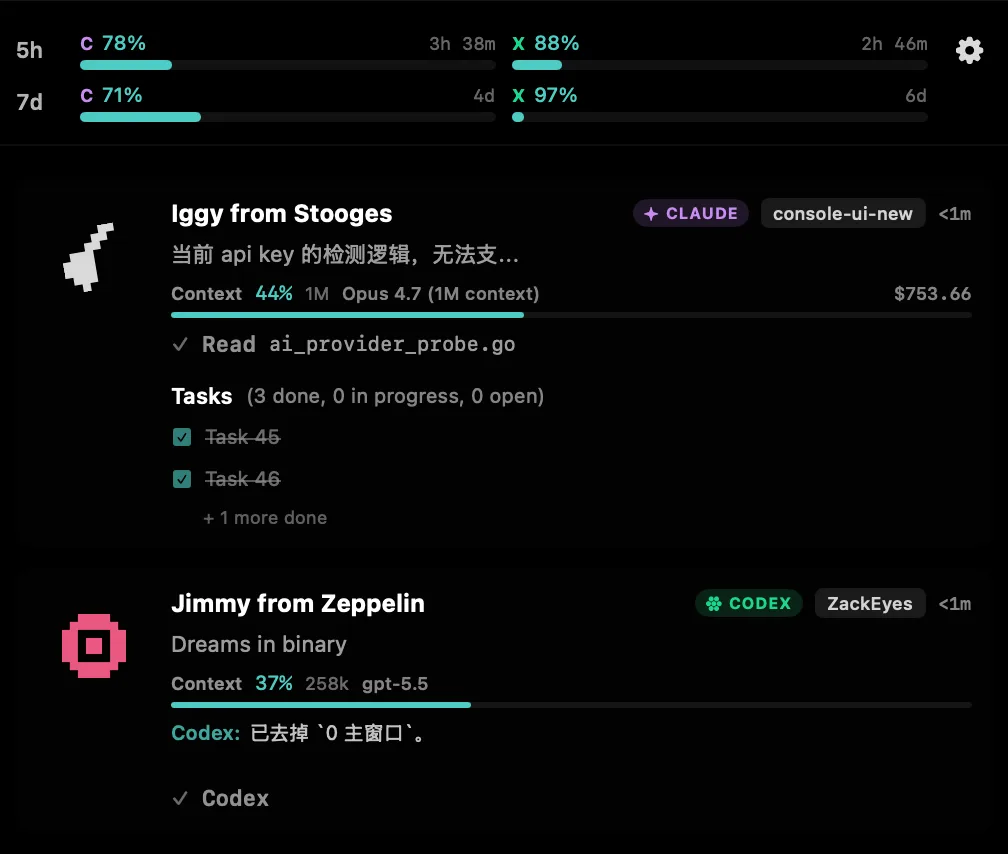
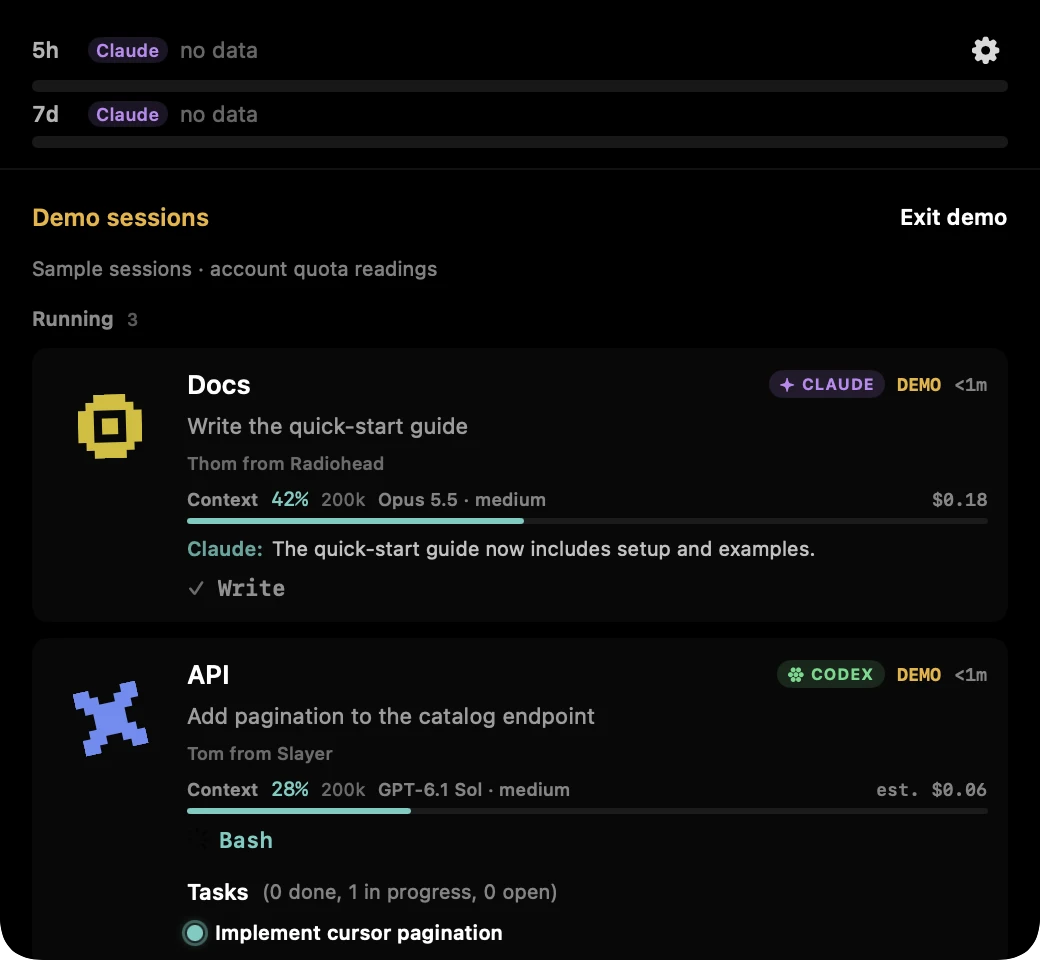
docs: align website content with current and planned releases (#278)

diff --git a/website/src/pages/llms-full.txt.ts b/website/src/pages/llms-full.txt.ts
@@ -1,3 +1,4 @@
+import { candidateVersion, journalVersion } from '../lib/product-plans.mjs';
 import {
   appVersion,
   releaseName,
@@ -40,8 +41,7 @@ ZackEyes is not another chat surface. It is an awareness layer for developers wh
 ## Install
 1. Download the current DMG from GitHub Releases.
 2. Open the DMG and drag ZackEyes into Applications.
-3. Launch ZackEyes and keep Claude Code or Codex CLI running in the normal terminal workflow.
-4. If macOS blocks first launch, approve ZackEyes in System Settings and reopen it.
+3. Verify the official checksum before first launch. The app is ad-hoc signed and not notarized. After verifying the checksum and trusting the official download, follow the installer README: xattr -dr com.apple.quarantine /Applications/ZackEyes.app. Then open it and start a fresh Claude Code or Codex CLI session.
 
 ## Download verification
 - Download page: https://zackeyes.vercel.app/download
@@ -49,22 +49,23 @@ ZackEyes is not another chat surface. It is an awareness layer for developers wh
 - SHA256: ${downloadSha256}.
 
 ## Uninstall
-1. Quit ZackEyes.
-2. Delete ZackEyes from Applications.
-3. Review ~/.claude/settings.json and ~/.codex/hooks.json for hook commands containing "zackeyes".
-4. Remove ~/.zackeyes only if you want to clear local ZackEyes settings.
+First use Settings → Integrations → Uninstall Integrations… while the app is installed, then quit and delete the app. Keep ~/.zackeyes or copy it before deletion: removing it erases Usage history, SSH host configuration, settings and existing journal files.
+1. While ZackEyes is installed, use Settings → Integrations → Uninstall Integrations… .
+2. Quit ZackEyes and delete it from Applications.
+3. Keep ~/.zackeyes to retain data, or copy it before deletion; it includes Usage history and SSH host configuration.
 
 ## Compatibility
+- The DMG app is ad-hoc signed, not Developer ID signed or notarized. Verify the official checksum, install into Applications, and follow the installer README for first launch.
 - macOS requirement: macOS 14 or newer.
 - CPU architecture: Apple Silicon and Intel Macs.
 - Agents: Claude Code and/or Codex CLI. ZackEyes installs hooks for whichever CLI it finds and skips missing agents.
 - Codex caveat: Codex sessions launched before hooks are installed may still be detected through JSONL tailing, but full hook-driven behavior applies to new Codex threads.
 
 ## Troubleshooting
-- If macOS says ZackEyes cannot be opened, approve the app from System Settings and reopen it.
+- If macOS says ZackEyes cannot be opened, verify the official installer checksum and follow the first-launch instructions in its README.
 - If Claude or Codex sessions do not appear, confirm the CLI is installed and start a fresh agent session.
 - If permission requests do not show in the notch, confirm ZackEyes is running and the relevant hook file contains a zackeyes-managed command.
-- To reinstall hooks, remove stale hook entries containing zackeyes and reopen ZackEyes.
+- To reinstall hooks, use Settings → Integrations → Repair Hooks, then start a fresh agent session.
 
 ## Model compatibility (v0.9.7)
 - Included in v0.9.7: Codex GPT-6.1 Sol / GPT-6 Astra compatibility, PR #252: https://github.com/yangshiqi/ZackEyes/pull/252. Observed effort, request-aware service-tier/long-request estimates, concurrent tools, interruptions, subagents and compaction events. No native steering or second runtime; ZackEyes never reads or modifies Codex config.toml.
@@ -72,10 +73,10 @@ ZackEyes is not another chat surface. It is an awareness layer for developers wh
 - Effort requires live CLI metadata; a Claude Code 2.1.295 probe supplied it on Stop after the reply. Startup model recovery does not invent effort. Daily totals use API list-price estimates, not subscription invoices; unknown pricing remains unpriced. Codex estimates may lack request metadata or earlier history; Claude session-card cost uses the CLI-reported total. Compatibility notes: https://zackeyes.vercel.app/docs#model-compatibility
 
 ## Development builds (merged, not yet released)
-The published download remains v${appVersion}. Master/source builds also include opt-in supported Claude question answers with timeout/terminal fallback, read-only SSH remote observation for up to eight hosts, a synthetic demo fleet, private local usage history (7/30/90 days) and per-agent stale quota hints. They form the v0.10.0 release candidate and are not yet in the published download. Remote questions stay in the remote terminal; SSH transmits session metadata, not prompts/replies/tool arguments. Usage charts cover complete local days through yesterday, with full dates on hover. Background daily settlement runs after 03:00 with startup catch-up; older history requires explicit import with pause/resume. Settings reads saved daily archives without rescanning transcripts. Local history stores counts, bounded names, hashed identities and timing metadata, not conversation text.
+The published download remains v${appVersion}. Master/source builds also include opt-in supported Claude question answers with timeout/terminal fallback, read-only SSH remote observation for up to eight hosts, a synthetic demo fleet, private local usage history (7/30/90 days) and per-agent stale quota hints. They form the v${candidateVersion} release candidate and are not yet in the published download. Remote questions stay in the remote terminal; SSH transmits session metadata, not prompts/replies/tool arguments. Usage charts cover complete local days through yesterday, with full dates on hover. Background daily settlement runs after 03:00 with startup catch-up; older history requires explicit import with pause/resume. Settings reads saved daily archives without rescanning transcripts. Local history stores counts, bounded names, hashed identities and timing metadata, not conversation text.
 
 ## Roadmap
-- v0.11.0 planned: finish setup, scheduling and delivery for the daily work journal. Its local pipeline exists in development, but the public generation menu is hidden and it is excluded from v0.10.0.
+- v${journalVersion} planned: finish setup, scheduling and delivery for the daily work journal. Its local pipeline exists in development, but the public generation menu is hidden and it is excluded from v${candidateVersion}.
 - Explore more agent support and local logs controls.
 - Completed development work and future plans: https://zackeyes.vercel.app/roadmap
 
@@ -96,7 +97,7 @@ Agent hook events enter a bridge process. The bridge sends normalized events ove
 - Hook writes are local and identifiable with the string zackeyes.
 - ZackEyes backs up ~/.claude/settings.json and ~/.codex/hooks.json before writing managed entries.
 - ZackEyes should never read or write ~/.codex/config.toml.
-- Controlled bridge failures fail quietly, write nothing to stdout, exits 0, and leave the agent terminal workflow in control.
+- Controlled bridge failures fail quietly, write nothing to stdout, exit 0, and leave the agent terminal workflow in control.
 
 ## Release and feedback
 - Latest macOS download: ${downloadUrl}
@@ -115,6 +116,7 @@ Agent hook events enter a bridge process. The bridge sends normalized events ove
 - Data posture: ZackEyes is local-first by default. It does not require an account to show local agent status.
 - Website privacy: the website does not upload source code, agent prompts, terminal history, or local project files.
 - Local files and settings: ZackEyes may use local configuration and agent hook files such as ~/.zackeyes, ~/.claude/settings.json, and ~/.codex/hooks.json.
+- Public price refresh: bundled prices work offline; the app fetches GitHub pricing.json at startup and every 24 hours without uploading conversation content.
 - Analytics: the current website does not add a third-party analytics script.
 - Public feedback: bugs, install issues, compatibility reports, and feature requests go through GitHub Issues.
 - Privacy page: https://zackeyes.vercel.app/privacy

diff --git a/website/src/pages/llms.txt.ts b/website/src/pages/llms.txt.ts
@@ -1,3 +1,4 @@
+import { candidateVersion, journalVersion } from '../lib/product-plans.mjs';
 import {
   appVersion,
   releaseName,
@@ -27,6 +28,7 @@ ZackEyes is a macOS notch command center for developers who run Claude Code, Cod
 - Uses native hooks and Unix socket bridge events so terminal workflows keep working when the app is closed.
 
 ## Compatibility
+- The DMG app is ad-hoc signed, not Developer ID signed or notarized. Verify the official checksum, install into Applications, and follow the installer README for first launch.
 - Current version: ${releaseName}.
 - Requires macOS 14 or newer.
 - Release builds target Apple Silicon and Intel Macs.
@@ -59,10 +61,10 @@ Developers using AI coding agents on macOS, especially MacBook users who want pe
 Included in v0.9.7: Codex GPT-6.1 Sol / GPT-6 Astra compatibility (PR #252) and Claude Fable 5/5.1, Opus 5/5.5 and Sonnet 5/5.5 compatibility (PR #258). They add observed effort, current pricing and lifecycle handling. Effort requires live CLI metadata; daily costs are API list-price estimates, not subscription invoices. Details: https://zackeyes.vercel.app/docs#model-compatibility
 
 ## Development builds (merged, not yet released)
-The published download remains v${appVersion}. Master/source builds also include opt-in supported Claude question answers with timeout/terminal fallback, read-only SSH remote observation for up to eight hosts, a synthetic demo fleet, private local usage history (7/30/90 days) and per-agent stale quota hints. They form the v0.10.0 release candidate and are not yet in the published download. Remote questions stay in the remote terminal; SSH transmits session metadata, not prompts/replies/tool arguments. Usage charts cover complete local days through yesterday, with full dates on hover. Background daily settlement runs after 03:00 with startup catch-up; older history requires explicit import with pause/resume. Settings reads saved daily archives without rescanning transcripts. Local history stores counts, bounded names, hashed identities and timing metadata, not conversation text.
+The published download remains v${appVersion}. Master/source builds also include opt-in supported Claude question answers with timeout/terminal fallback, read-only SSH remote observation for up to eight hosts, a synthetic demo fleet, private local usage history (7/30/90 days) and per-agent stale quota hints. They form the v${candidateVersion} release candidate and are not yet in the published download. Remote questions stay in the remote terminal; SSH transmits session metadata, not prompts/replies/tool arguments. Usage charts cover complete local days through yesterday, with full dates on hover. Background daily settlement runs after 03:00 with startup catch-up; older history requires explicit import with pause/resume. Settings reads saved daily archives without rescanning transcripts. Local history stores counts, bounded names, hashed identities and timing metadata, not conversation text.
 
 ## Roadmap
-- v0.11.0 planned: finish setup, scheduling and delivery for the daily work journal. Its local pipeline exists in development, but the public generation menu is hidden and it is excluded from v0.10.0.
+- v${journalVersion} planned: finish setup, scheduling and delivery for the daily work journal. Its local pipeline exists in development, but the public generation menu is hidden and it is excluded from v${candidateVersion}.
 - Explore more agent support and local logs controls.
 - Completed development work and future plans: https://zackeyes.vercel.app/roadmap
 
@@ -76,6 +78,7 @@ Use https://zackeyes.vercel.app/answers for short answers to common product ques
 - Good first issues and help-wanted: ${contributeUrl}
 
 ## Privacy
+The app fetches public GitHub update metadata and refreshes bundled model prices online at startup and every 24 hours. Cost conversion stays local; prompts and replies are not uploaded by these requests.
 ZackEyes is local-first by default. The website does not upload source code, agent prompts, terminal history, or local project files.
 `, {
     headers: {

diff --git a/website/src/styles/global.css b/website/src/styles/global.css
@@ -1568,3 +1568,18 @@ h1 {
   white-space: nowrap;
   border: 0;
 }
+
+.install-command {
+  max-width: 100%;
+  overflow-x: auto;
+  padding: 16px;
+  border: 1px solid var(--line);
+  border-radius: 8px;
+  font-size: 0.875rem;
+  line-height: 1.6;
+}
+
+.install-security-note {
+  grid-column: 1 / -1;
+  min-width: 0;
+}

diff --git a/website/README.md b/website/README.md
@@ -140,3 +140,7 @@ Logo source: `https://www.logosymbol.com/letter/letter-z-logo-design-with-arrow`
 ### Product screenshots
 
 The homepage gallery and candidate section in `/docs` include `usage-history.webp` and `remote-hosts.webp`; `settings-general.webp` is refreshed for the candidate sidebar. These are actual native captures of source `7c83880` on 2026-10-15, using a disposable home and synthetic Claude/Codex count transcripts. Usage covers seven completed local days; example projects are Atlas and Harbor. SSH aliases `build-linux` and `studio-mac` are disabled; no connection was attempted. No user projects, prompts, host credentials or configuration were copied. Captures are WebP at 1800 × 1960 pixels; sample data and the unreleased v0.10.0 status are stated in captions. Full-size image links preserve readability on small screens. The published download metadata remains unchanged.
+
+The remaining legacy panel captures were replaced during the site-wide content refresh. `dual-agent-support.webp`, `sessions-attention.webp` and `notch-question.webp` are native 1040 × 960 captures of the built-in Demo from the same app source, with sample projects Storefront, API, Docs and Tests. Quota readings were not fabricated: the isolated home has no account readings and the images show “no data”. The question capture shows the visible choices in the scrollable panel. The old `terminal-confirmation.webp` asset is retired. Gallery metadata describes Demo cards rather than real private sessions.
+
+Planned versions live in `src/lib/product-plans.mjs`; published download metadata remains in `release.mjs`. When publishing a candidate, update its website status separately from the metadata bump. Installation pages share `InstallSecurityNote.astro` for the current ad-hoc signature and first-launch instructions. Cost calculation is local; public model prices refresh from GitHub at startup and every 24 hours. Vibe Island's vendor facts were refreshed on 2026-10-15 (30 advertised agents; $19.99 one-Mac entry price).
